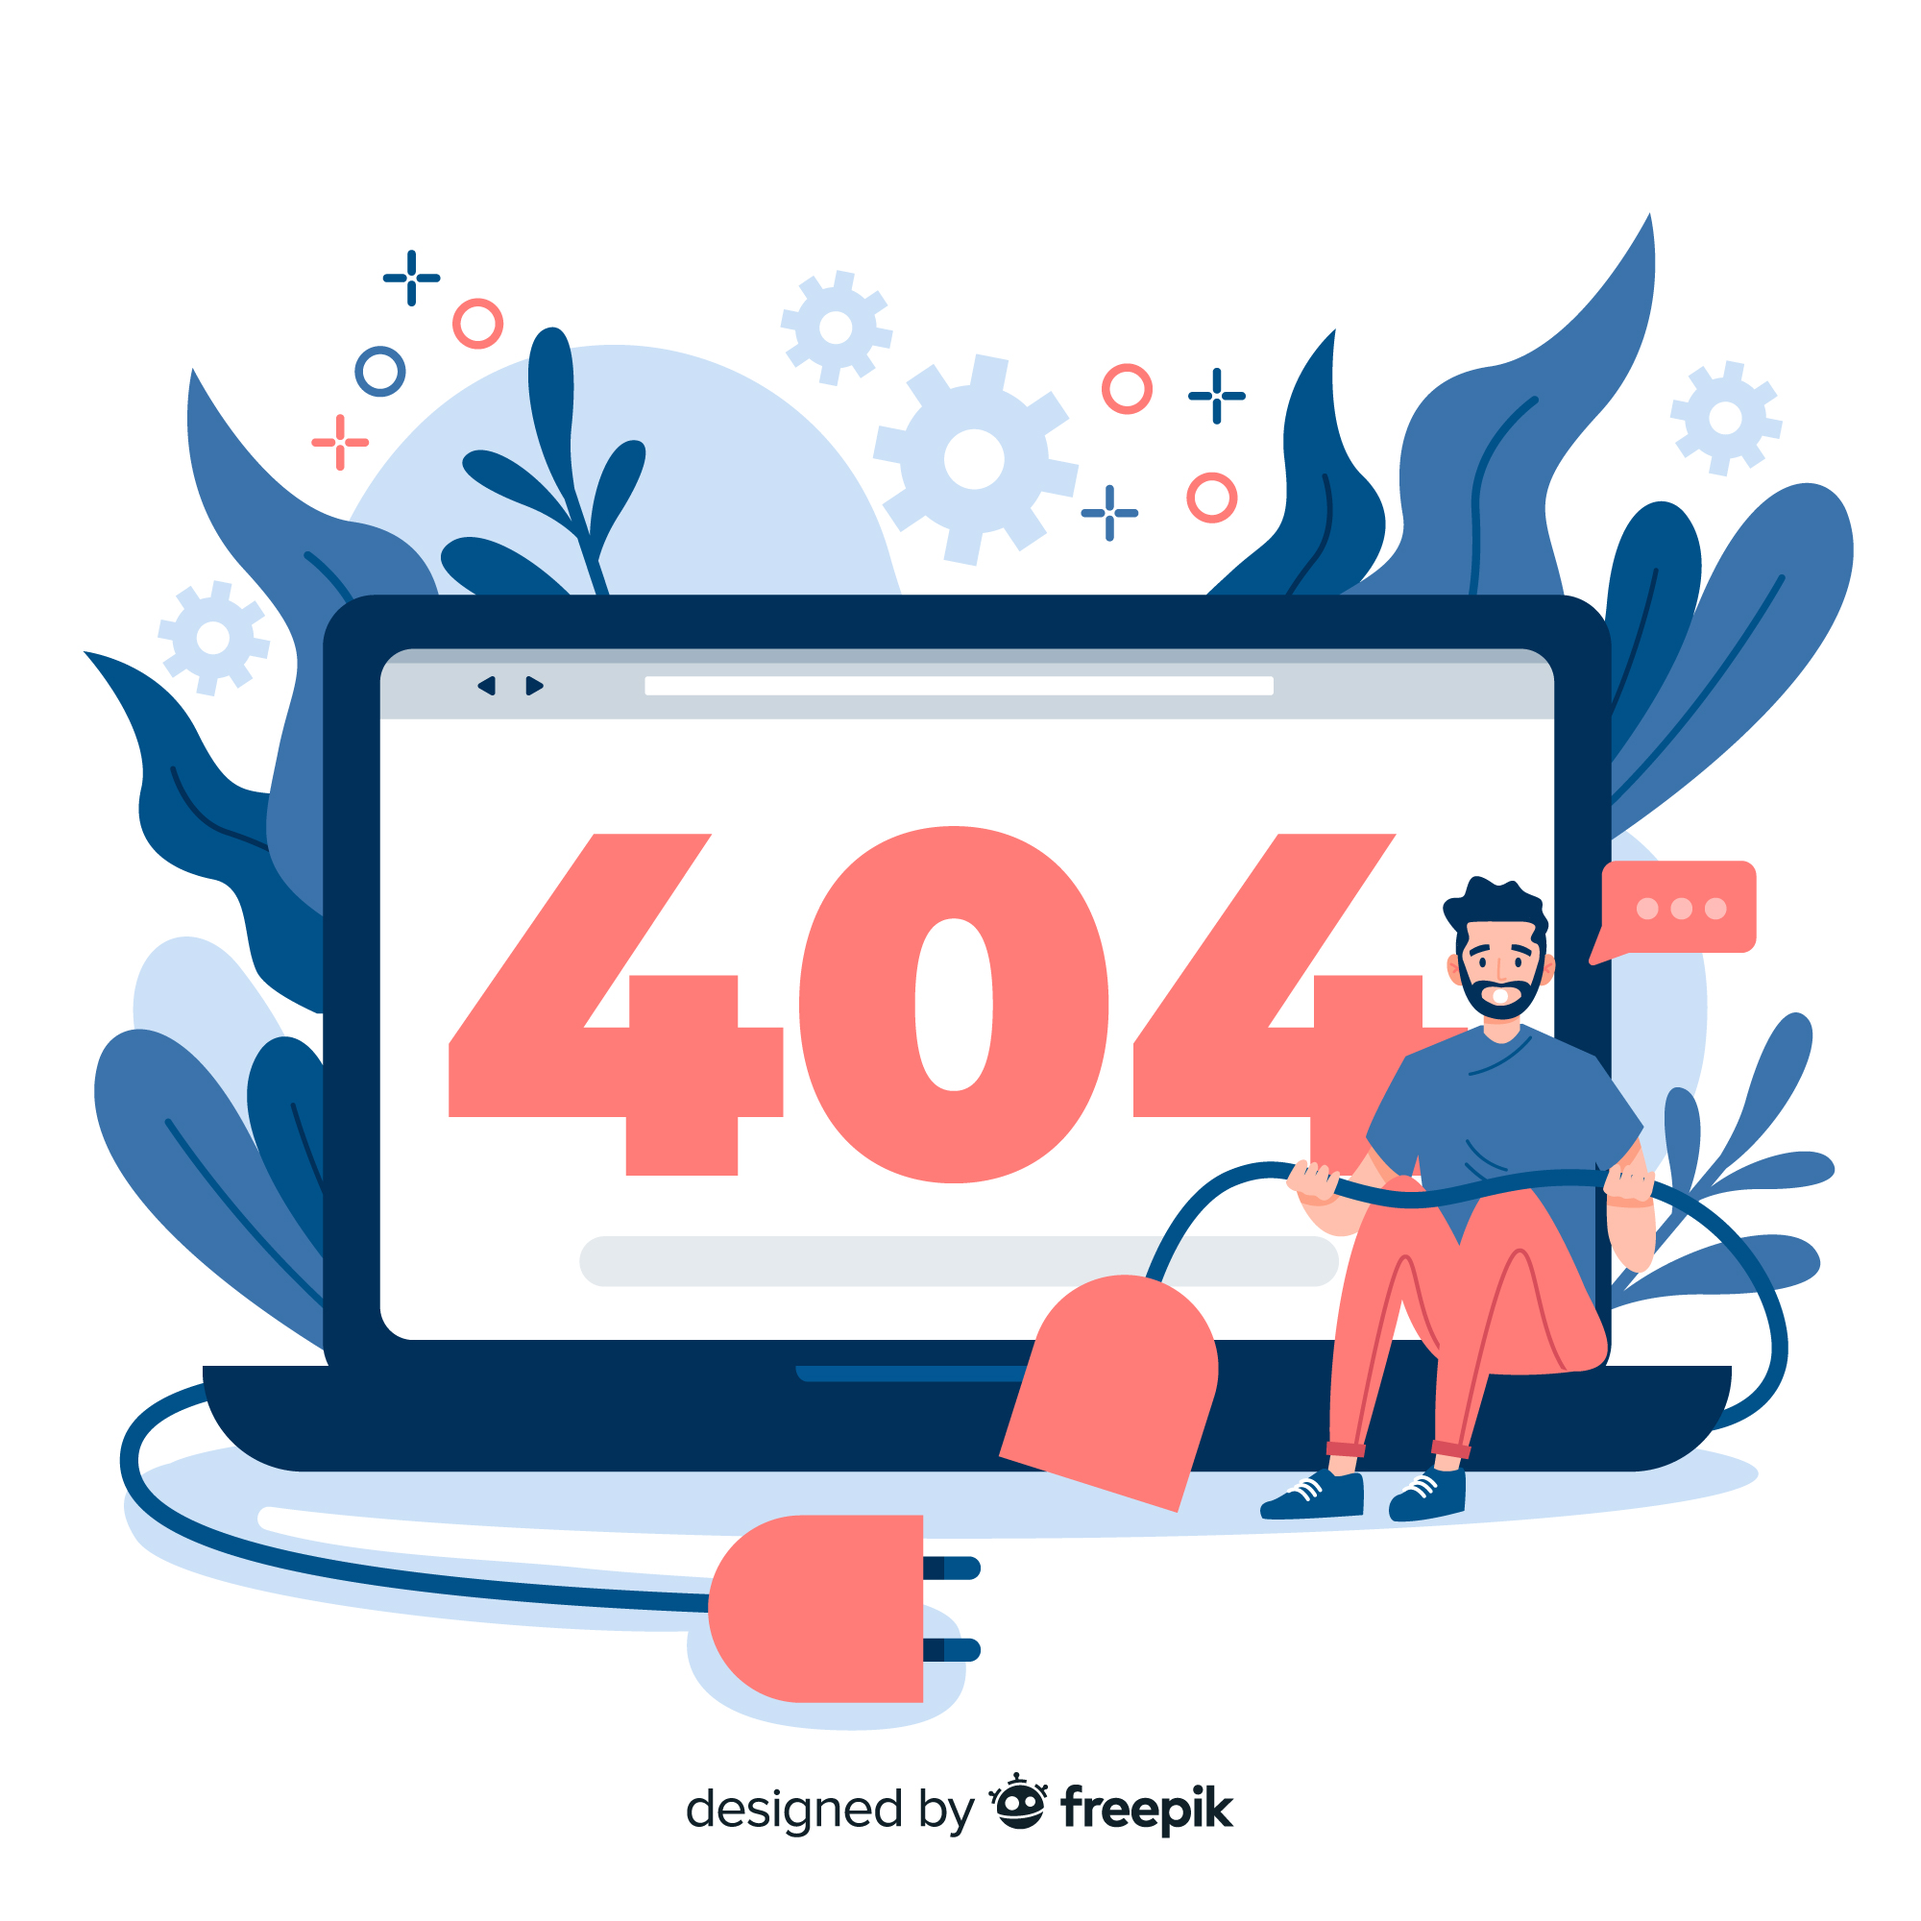
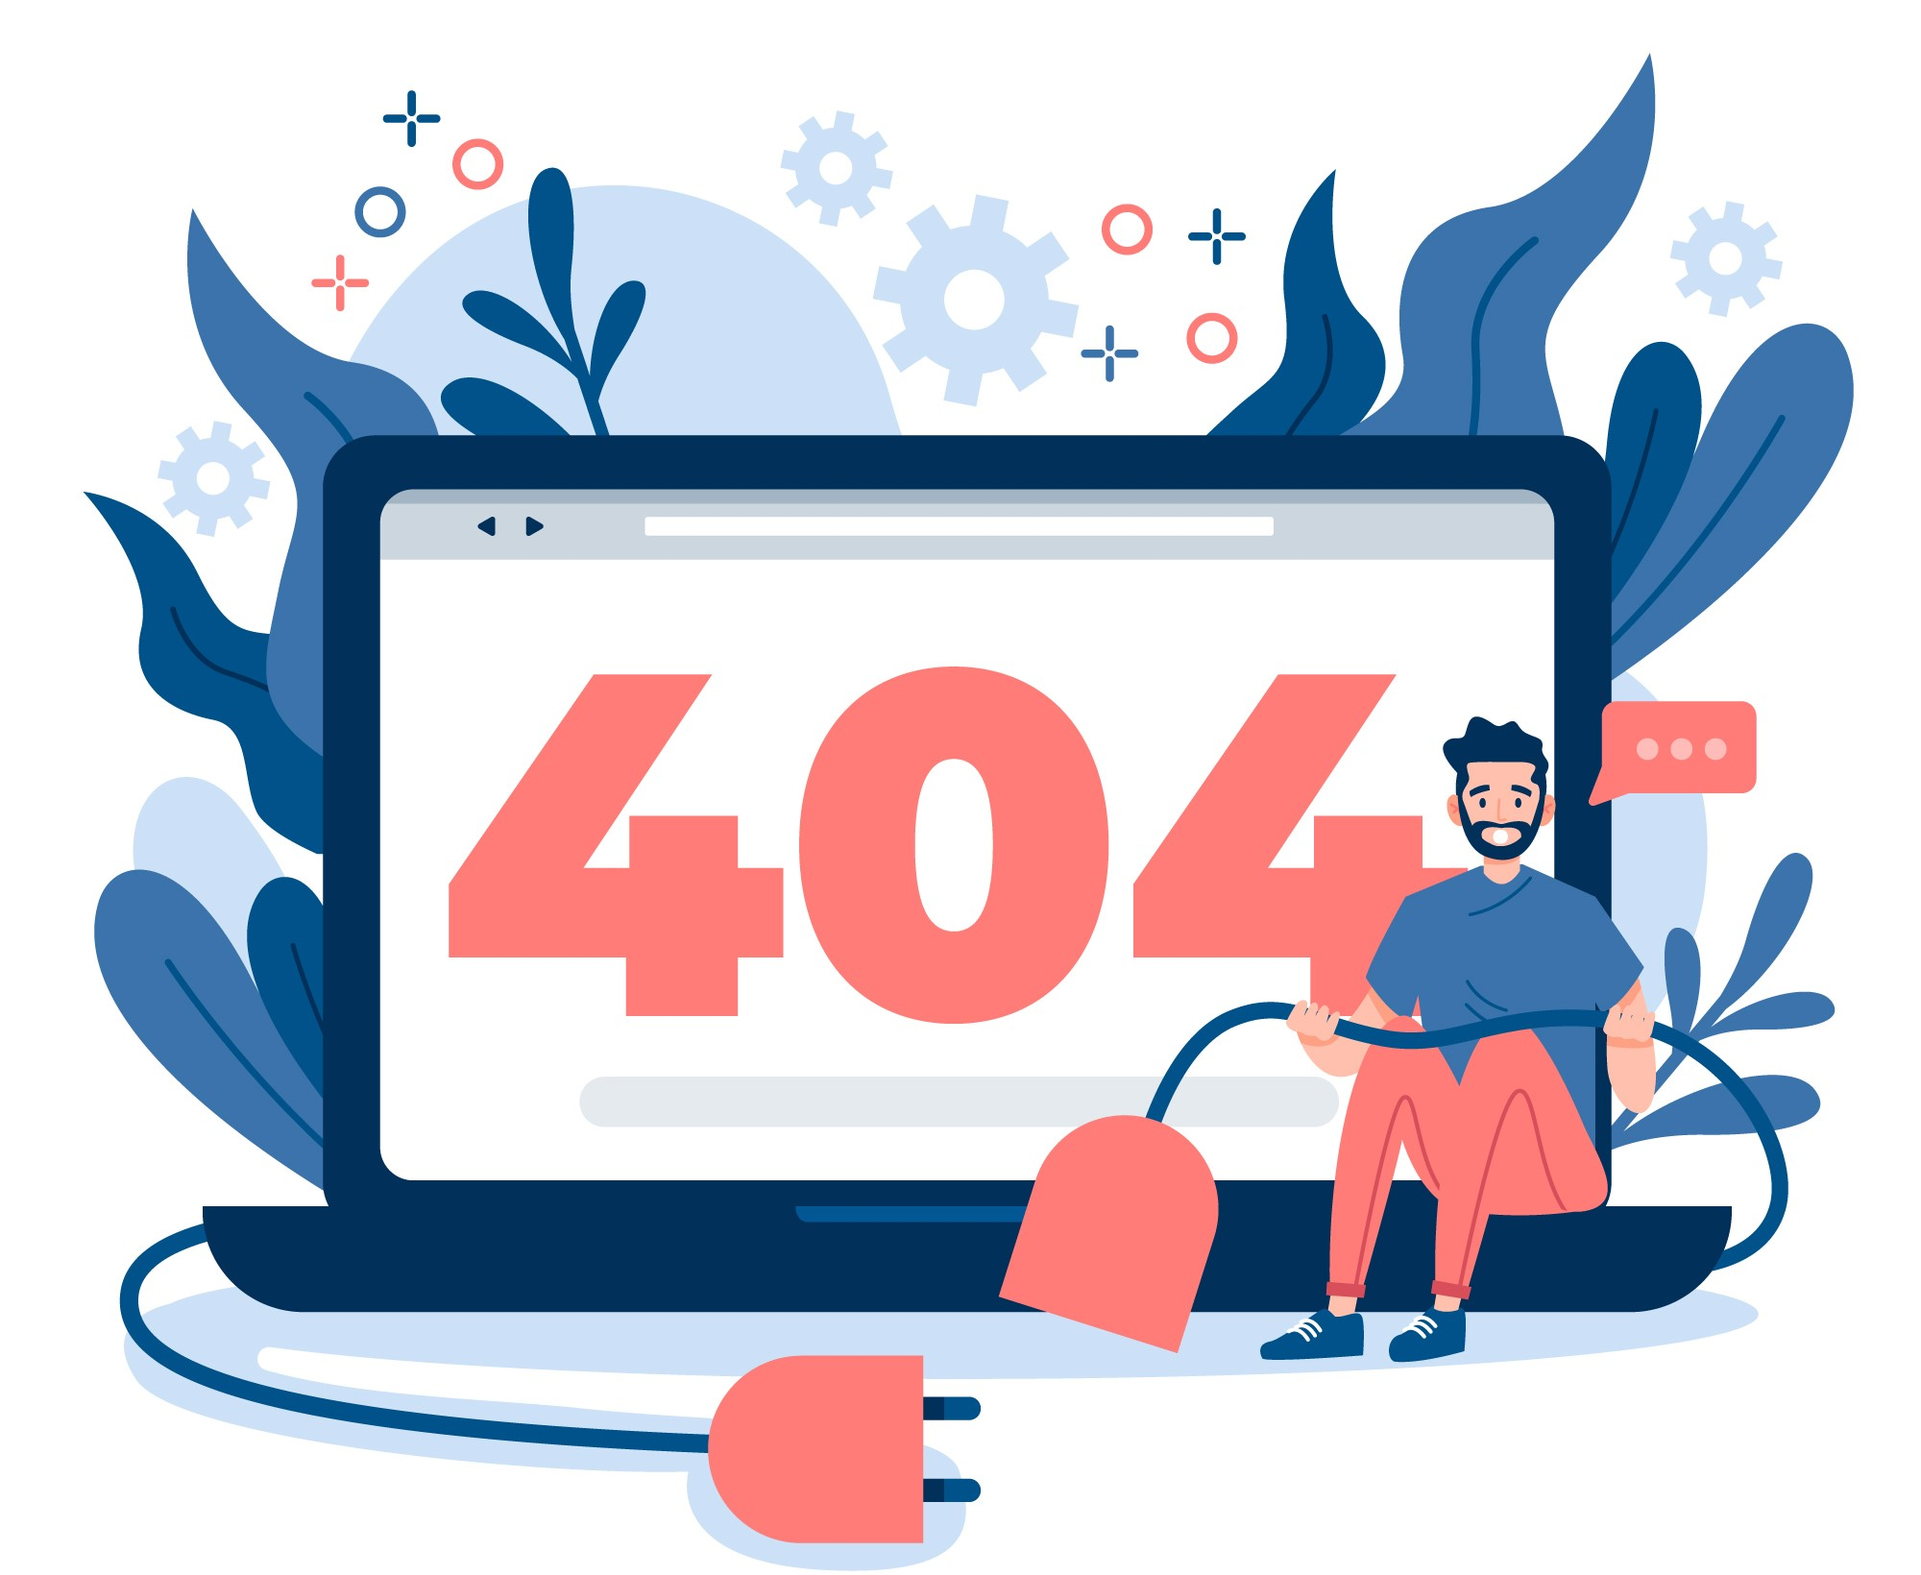
remove css from 404 psge

diff --git a/src/main.jsx b/src/main.jsx
@@ -79,7 +79,7 @@ const router = createBrowserRouter([
       },
       {
         path: "*",
-        element: <div className='w-full h-screen p-0 m-0 py-9'><img src={img} alt="" className='w-full h-full'/></div>
+        element: <div className=''><img src={img} alt="" className='w-full h-full'/></div>
       }
 
     ]
